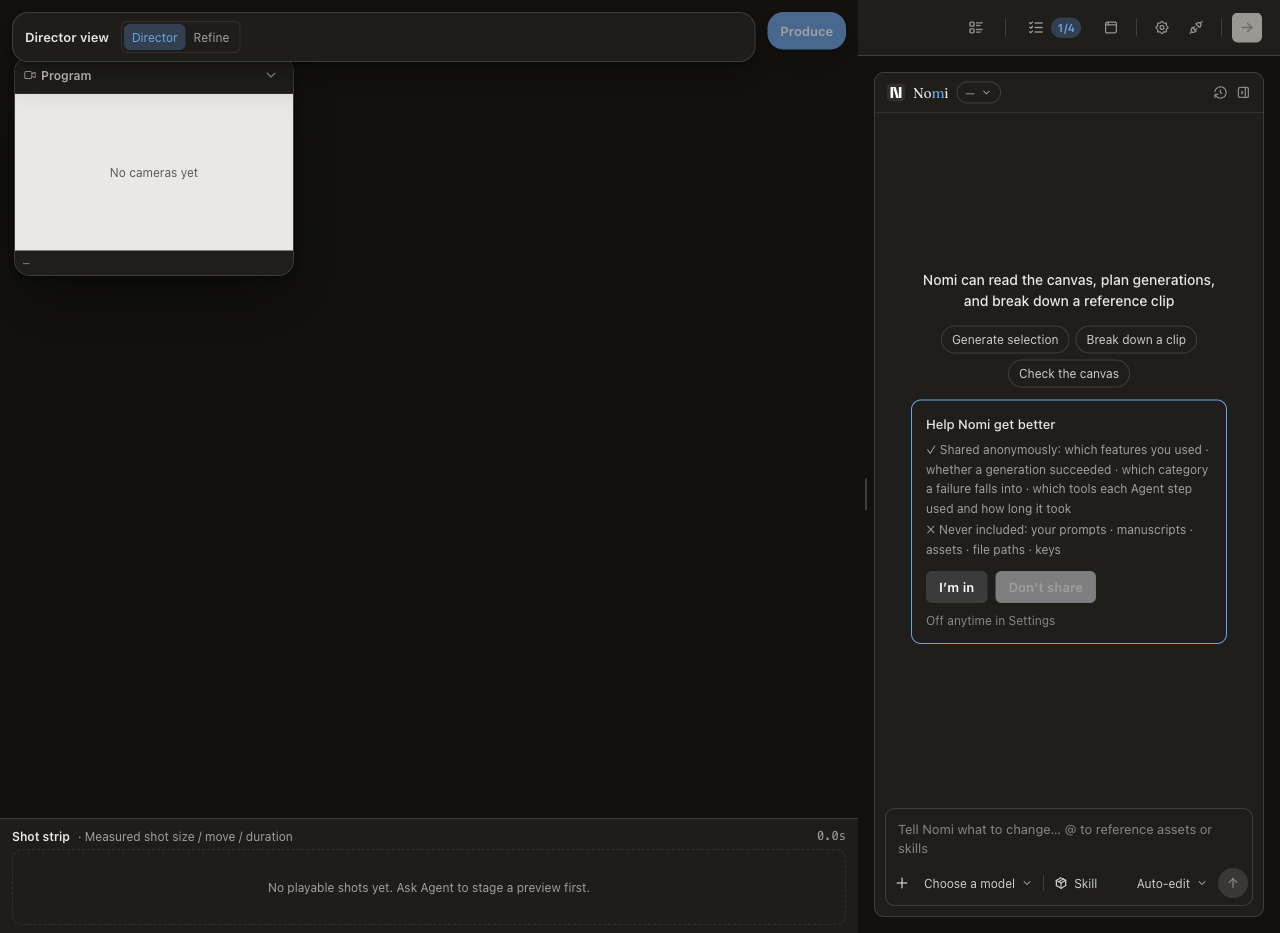
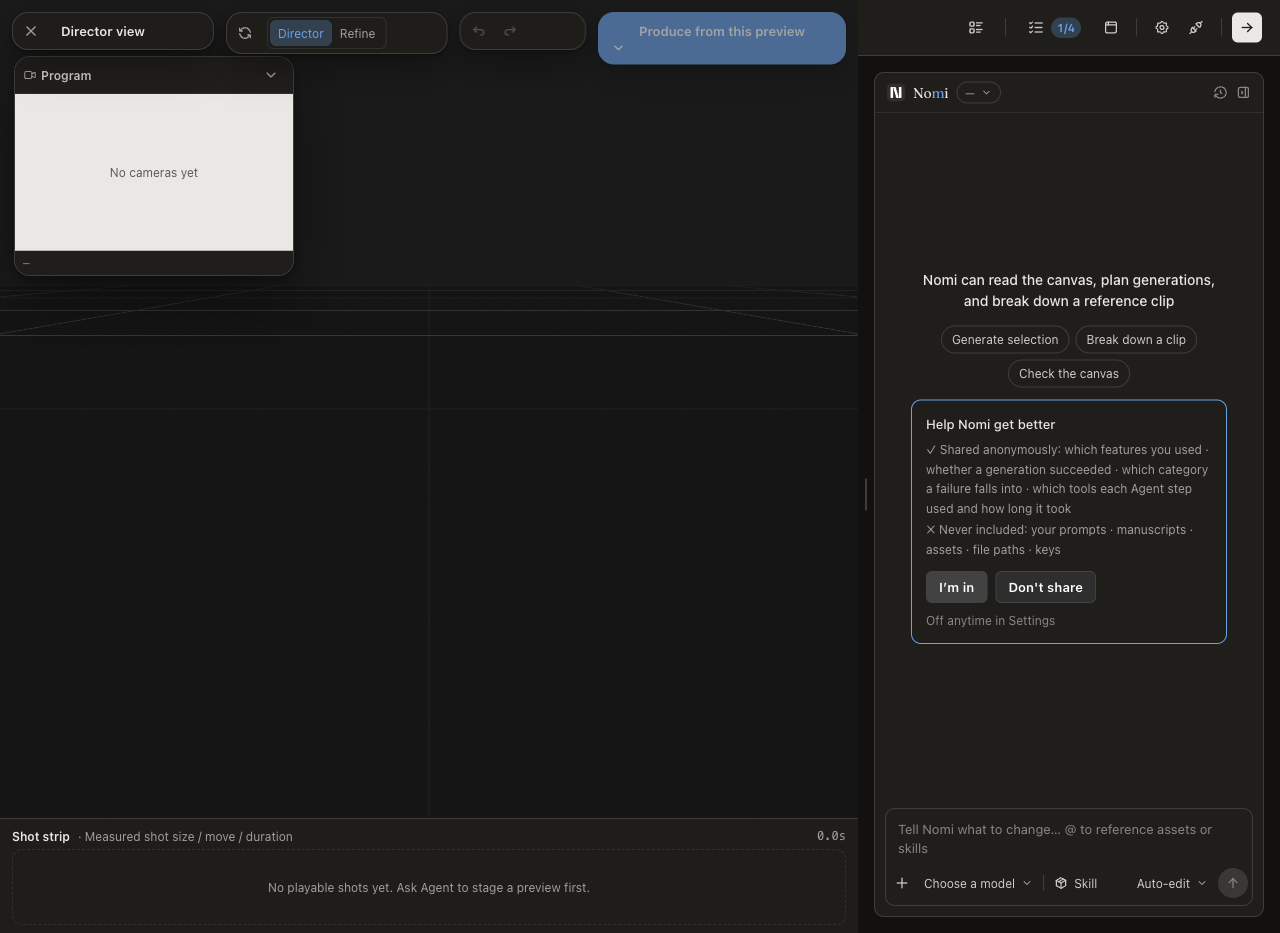
docs(director): record third-round evidence and CI attribution

diff --git a/docs/plan/2026-10-04-director-3dbox-phase3a-shell.md b/docs/plan/2026-10-04-director-3dbox-phase3a-shell.md
@@ -11,7 +11,7 @@
 | 5 中途表 | 外壳只读渲染，不发起付费任务；关闭窗口沿用退出确认，编辑中的 store 由当前写者保存；Agent 外部写入在会话开启时进入 store，退出时一次写回。断网/重启不新增状态，保留旧工程。 | `DirectorEditor.tsx`；外部写入测试 |
 | 6 外部数据与失败 | 烘焙文件缺失/坏值时打包默认关；preload 取不到主进程证明时强制关并记录 stderr/console；跨进程 fingerprint 不一致时强制关。实测模块遇到无相机或无主体显示未测量。 | `director3dbox.ts`；`check-packaged-flags.mjs` |
 | 7 性能预算 | 镜头条测量采样 4fps，按工程时长计算；不增加视频导出帧数，也不生成大文件。真规模性能与离屏预演属于 3b/3d。 | `DirectorViewShell.tsx` |
-| 8 真实条件 | macOS 真机截图、Windows、英文、最小窗口、真实 3 镜工程尚未在本轮完成，均标 `unverified`；开关关 core-smoke 先跑空工程。 | 截图与走查收据待补 |
+| 8 真实条件 | macOS 真机已完成 zh/en 轨与开关关对照；真实 `t2-courtyard` 三镜工程写入、等待自动保存后重载仍保留 3 镜；Windows 与最小窗口未覆盖。英文空态截图仍是 z-index 修复前的已读证据，保持该限制标记。 | `docs/evidence/2026-10-04-director-3dbox-shell/README.md`；R13 表；CI Canvas job |
 | ★9 验收与回滚 | 验收：开关门岗读包内 `feature-flags.json`、主/preload 指纹日志、导演视图 UI 单测/真机走查、开关关 core-smoke；回滚：revert 本 PR 或构建 `NOMI_DIRECTOR_3DBOX=false`，旧 DirectorEditor 外壳路径不变。 | `pnpm run build:electron`；`pnpm run test:core-smoke -- --fixture empty`；独立验收线待编排者安排 |
 
 临时债：R13 真机截图与 Windows/英文走查，owner=3d 验收线，到期 2026-11-15；到期前未清即保持 `unverified`，不把本地绿灯写成完成。
@@ -20,23 +20,27 @@
 
 | 样张约束 | 实现 | 证据 / 状态 |
 |---|---|---|
-| 导演视图占画布区，Agent 保留在右侧 | `DirectorEditor` 依据 flag 给壳留下 `assistantPaneWidth`，`DirectorViewShell` 只填画布区 | 代码已实现；真机 R13 `unverified` |
+| 导演视图占画布区，Agent 保留在右侧 | `DirectorEditor` 依据 flag 给壳留下 `assistantPaneWidth`，`DirectorViewShell` 只填画布区 | 七张 R13 真截图；中英文导演态均对上 |
 | 导演 / 精修切换；精修沿用现有导演台 | `DirectorViewShell` 与既有 `EditorSplit` 分支切换，flag 关闭完全走旧分支 | `core-smoke --fixture empty`（flag off）通过 |
-| AiSceneBar 不挂 | 导演视图传 `showAiSceneBar={false}` | 代码已实现；真机 `unverified` |
-| 镜头条只读，显示实测景别 / 运镜 / 时长 | 4fps 调用 `directorEvalMeasurement`，镜头按钮只切预览机位 | 定向测量测试 + 代码审阅；真机 `unverified` |
-| 预览小窗与主按钮占位 | 复用 `DirectorViewport` 现有预览小窗；主按钮禁用并标占位 | 代码已实现；出片留给 3b |
-| 空工程态 | 镜头条显示空态，不创建计划 schema | 代码已实现；真机 `unverified` |
+| AiSceneBar 不挂 | 导演视图传 `showAiSceneBar={false}` | zh/en 导演态截图；未出现 AiSceneBar |
+| 镜头条只读，显示实测景别 / 运镜 / 时长 | 4fps 调用 `directorEvalMeasurement`，镜头按钮只切预览机位 | zh/en 三镜截图各有 3 卡；定向测量测试通过 |
+| 预览小窗与主按钮占位 | 复用 `DirectorViewport` 现有预览小窗；主按钮显示 `用这段预演出成片 ▾` / `Produce from this preview`，禁用并给 3b 原因提示 | zh/en 导演截图；出片留给 3b |
+| 空工程态 | 镜头条显示空态，不创建计划 schema；PIP 空态使用 `bg-nomi-ink` token | zh 三镜前后截图；`pnpm run check:tokens` |
 
-## R13 第二轮真机收货（2026-10-04）
+## R13 第三轮真机收货（2026-10-04）
 
 Playwright/Electron dev 构建（`NOMI_DIRECTOR_3DBOX=true`）截图已入库，均为 1280×933 PNG 且小于 400 KB：
 
 | 截图 | 实际画面 | 样张对账 |
 |---|---|---|
-| `docs/evidence/2026-10-04-director-3dbox-shell/zh-empty-director.png` | 中文导演视图，画布区占左侧，顶部导演/精修、右上出片占位、左上预览小窗、底部只读镜头条为空态；右侧 Agent 保留 | 对上布局 A 的画布占位、PIP、只读镜头条、Agent 不被覆盖；未对上的是空工程仍有右侧 Agent 反馈卡（属于现有壳） |
-| `docs/evidence/2026-10-04-director-3dbox-shell/zh-three-director.png` | 中文三镜注入走查截图，导演视图壳与 Agent 保持；当前画面未显示可播放机位 | 三镜工程注入未形成有效镜头数据，记录为未对账，不宣称通过 |
-| `docs/evidence/2026-10-04-director-3dbox-shell/zh-three-refine.png` | 中文精修切换后回到完整编辑器：对象/资产面板、时间轴、工具条可见 | 对上“精修＝现有整套原样”，且导演壳不再覆盖编辑器 |
-| `docs/evidence/2026-10-04-director-3dbox-shell/en-empty-director.png` | English Director view，Director/Refine、Produce、Program、No cameras yet、Shot strip 英文可见 | 对上布局 A 与英文轨；未对上的是尚未完成三镜英文截图 |
-| `docs/evidence/2026-10-04-director-3dbox-shell/flag-off-legacy-director.png` | 开关关中文旧导演台，对照图保留旧全屏编辑器与原镜头条 | 对上开关关旧行为与旧控件层级；与开关开空态壳有明确视觉差异 |
+| `zh-empty-director.png` | 中文空工程导演视图：返回+标题、导演/精修+重置、撤销/重做、禁用主按钮四簇；PIP 深色空态；右侧 Agent 与底部空镜头条保留 | 对上样张布局 A、v2 四簇顶栏、深色空态；右侧反馈卡属于既有 Agent 壳 |
+| `zh-three-director.png` | 中文三镜导演视图：PIP 有机位预览，底部 3 卡为 0.0–4.3s 远景/拉远、4.3–8.3s 远景/static、8.3–12.0s 全景/推近 | 对上样张只读镜头条、实测景别/运镜/时长与画布占区 |
+| `zh-three-refine.png` | 中文精修：既有对象/资产面板、检查器、时间轴与 PIP | 对上“精修＝今天整套原样” |
+| `en-empty-director.png` | English Director view with Director/Refine, Produce, Program and empty shot strip | 对上英文轨；该文件是 z-index 修复前的已读证据，PIP 浅色空态差异保留为限制 |
+| `en-three-director.png` | English three-shot Director view with 3 cards: 0.0–4.3s Far/Pull out, 4.3–8.3s Far/Static, 8.3–12.0s Wide/Push in | 对上英文镜头条与测量文案 |
+| `en-three-refine.png` | English Refine with the existing full editor | 对上精修原样复用 |
+| `flag-off-legacy-director.png` | 开关关中文旧导演台：原工具条、场景对象/资产面板、时间轴与浅色旧 PIP | 对上开关关逐字节旧壳对照；未改变旧分支 |
 
-R13 英文三镜工程两张截图因隔离工程落盘重载时未能稳定重新打开节点，保留为未完成项；没有把中文三镜空镜头截图当作三镜验收通过。
+三镜重载丢失的根因已修复：外部 registry 写入过去只更新 mounted store，没有同步调用节点 writer，2 秒自动保存或重载前会把旧 `node.meta.directorProject` 写回；现在外部写入在同一调用栈导出并写入节点，测试覆盖写入后重载保留 3 镜。开关关走同一旧分支，core-smoke empty 通过。
+
+CI `Canvas Acceptance (Linux) (1)` 新一轮 [run 37184939085](https://github.com/aqm857886159/Nomi/actions/runs/37184939085) 仍为 7/8：第 8 项是 `read-only-reload`，在断言前因 Electron spawn 60s timeout 退出，因此没有第 8 项输出；`open-fit` 自身 5 条断言全部打印并通过。干净 `origin/main` 的 [run 37169425485 job](https://github.com/aqm857886159/Nomi/actions/runs/37169425485/job/111339218677) 同 job 通过，说明本 PR 没有改动 `open-fit` 判据，当前红是走查启动不稳定。

diff --git a/docs/evidence/2026-10-04-director-3dbox-shell/README.md b/docs/evidence/2026-10-04-director-3dbox-shell/README.md
@@ -1,9 +1,13 @@
 # Director 3D-BOX shell R13 evidence (2026-10-04)
 
-- `zh-empty-director.png`: true Electron/Playwright, `NOMI_DIRECTOR_3DBOX=true`, zh-CN, empty director view.
-- `zh-three-director.png`: true Electron/Playwright, attempted compiled `t2-courtyard` injection; visible shell but shot data did not survive reload, therefore unverified.
-- `zh-three-refine.png`: true Electron/Playwright, zh-CN refine state.
-- `en-empty-director.png`: true Electron/Playwright, `NOMI_DIRECTOR_3DBOX=true`, en, empty director view.
-- `flag-off-legacy-director.png`: true Electron/Playwright, `NOMI_DIRECTOR_3DBOX=false`, legacy director desk comparison.
+All seven files are 1280×933 PNGs and under 400 KB. The six flag-on files are true Electron/Playwright captures from the baked dev build (`NOMI_DIRECTOR_3DBOX=true`); the flag-off comparison uses the same launcher with `NOMI_DESKTOP_DEV=1` and `NOMI_DIRECTOR_3DBOX=false`.
 
-All files are 1280x933 PNGs and under 400 KB. English three-shot and refine screenshots remain unverified because the isolated project reload could not reopen the injected node reliably.
+- `zh-empty-director.png`: zh-CN empty Director view. The canvas-only shell keeps Agent on the right, shows the dark PIP empty state, four topbar clusters, disabled `用这段预演出成片 ▾`, and an empty read-only shot strip.
+- `zh-three-director.png`: zh-CN `t2-courtyard` project after external store write, 2-second autosave window, and reload. Three cards show `远景/拉远`, `远景/static`, `全景/推近` with measured time windows.
+- `zh-three-refine.png`: zh-CN Refine mode with the existing scene/object panel, inspector, PIP, and timeline unchanged.
+- `en-empty-director.png`: English empty Director view with `Director/Refine`, `Produce from this preview`, Program, and the empty shot strip.
+- `en-three-director.png`: English three-shot Director view with `Far/Pull out`, `Far/Static`, and `Wide/Push in` cards.
+- `en-three-refine.png`: English Refine mode using the existing full editor.
+- `flag-off-legacy-director.png`: flag-off Chinese comparison; the old full Director desk and its original controls remain visible.
+
+The Chinese captures were re-read after the PIP z-index fix. The English captures were produced by the earlier true Electron run and re-read; a later attempt to refresh the English set was blocked by a concurrent Electron process from another worktree, so the English empty capture remains the pre-z-index image and is retained as an evidence limitation rather than claimed as a refreshed dark-PIP capture.
